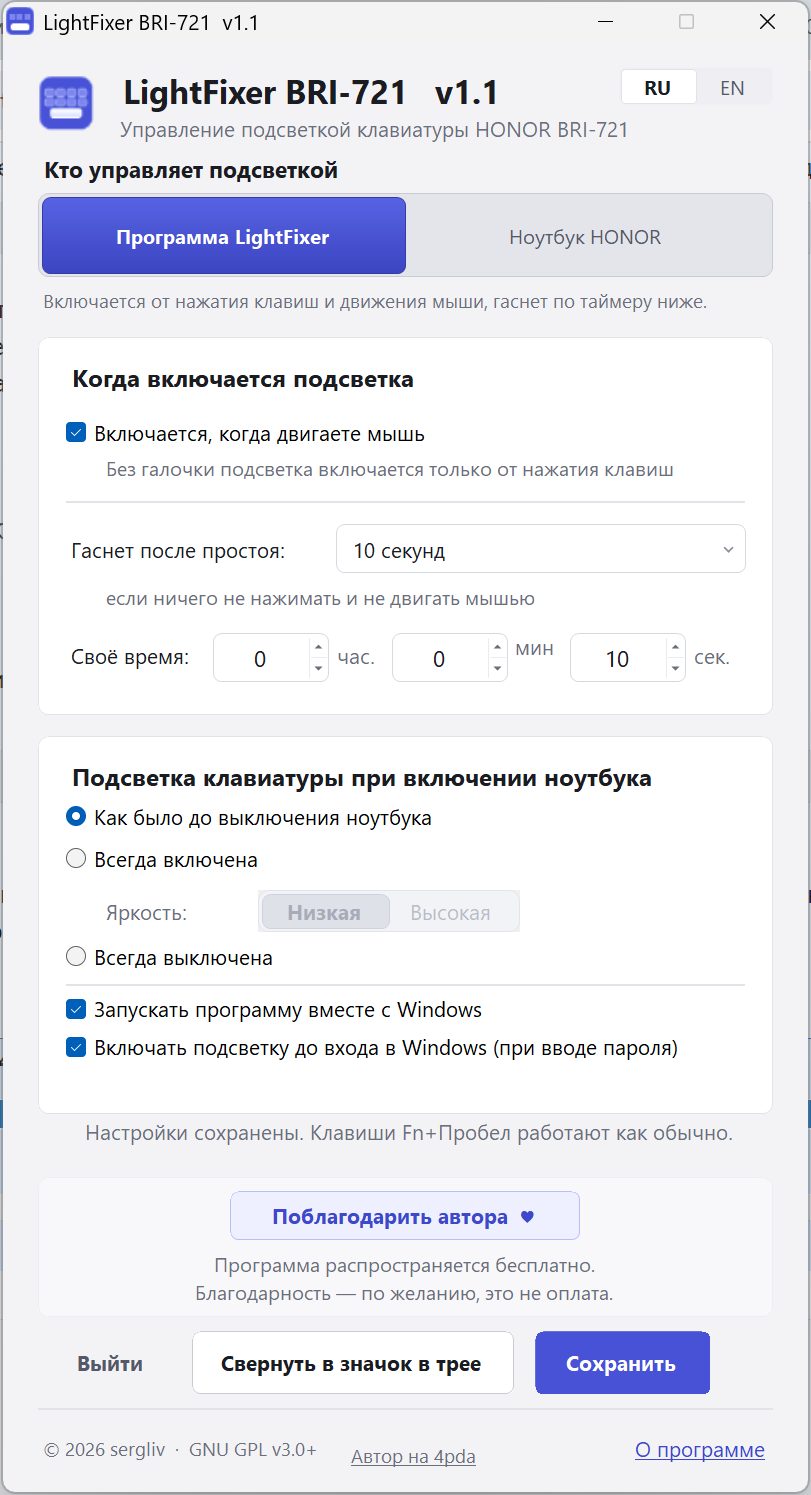
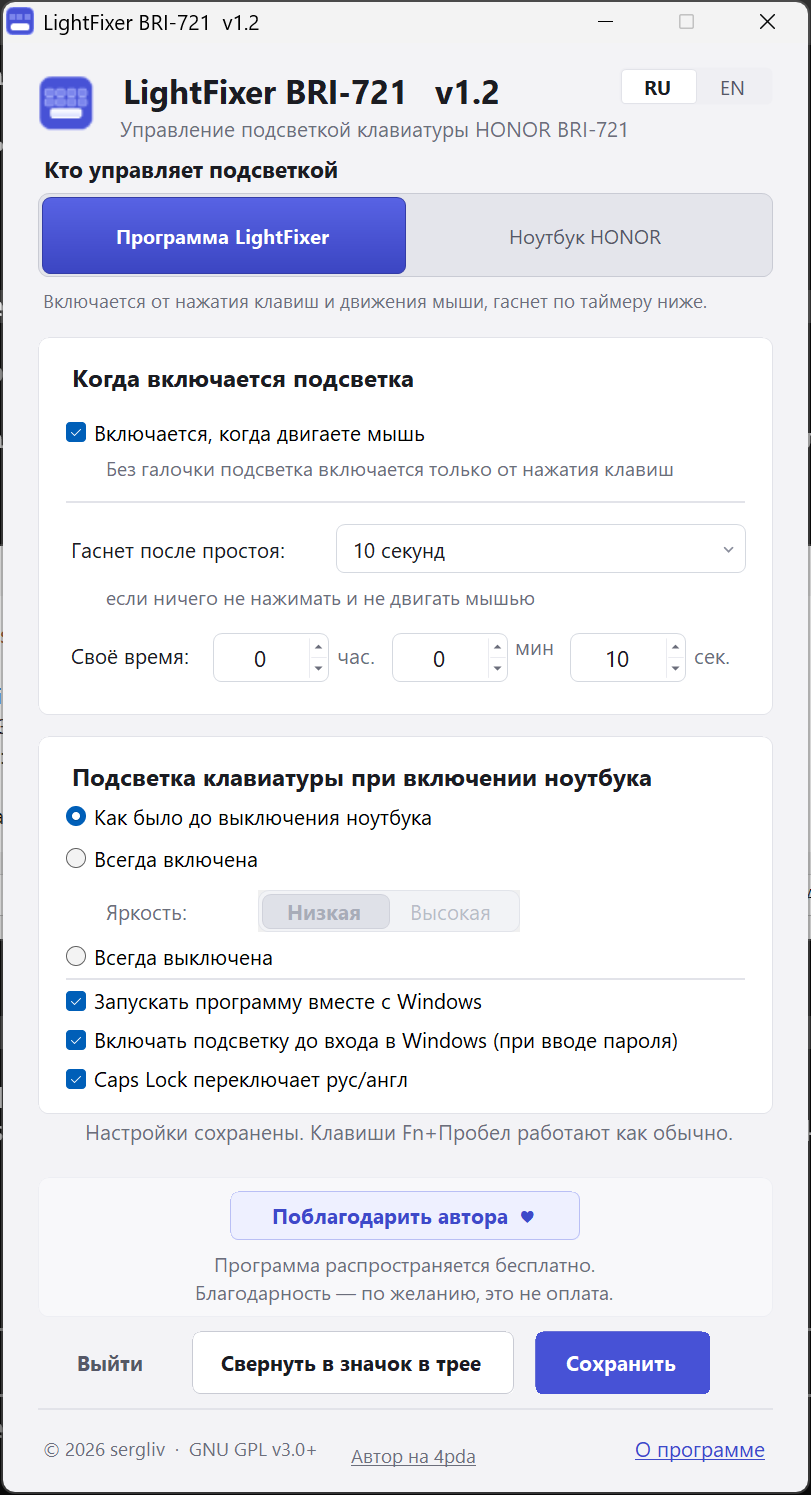
Версия 1.2: Caps Lock переключает раскладку рус/англ

diff --git a/LightFixer.cs b/LightFixer.cs
@@ -33,8 +33,8 @@ using System.Windows.Forms;
 
 // the same number must stand in three places: here, in app.manifest and in the window;
 // bump them together
-[assembly: AssemblyVersion("1.1.0.0")]
-[assembly: AssemblyFileVersion("1.1.0.0")]
+[assembly: AssemblyVersion("1.2.0.0")]
+[assembly: AssemblyFileVersion("1.2.0.0")]
 [assembly: AssemblyProduct("LightFixer BRI-721")]
 [assembly: AssemblyCopyright("Copyright (C) 2026 sergliv")]
 
@@ -51,6 +51,7 @@ namespace LightFixer
         public string Control = "ours";     // "ours" | "native"
         public bool MouseWake = true;
         public bool BootLight = true;       // light at the password screen, before sign-in
+        public bool CapsSwitch = false;     // Caps Lock switches the keyboard layout, not the lock
         public string Lang = "";            // interface language: "ru" | "en"
         public int FwTimeout = 0;           // the laptop's own timeout, kept to restore it on exit
         public string Path;
@@ -77,6 +78,8 @@ namespace LightFixer
                     if (m.Success) MouseWake = m.Groups[1].Value == "true";
                     m = Regex.Match(t, "\"bootLight\"\\s*:\\s*(true|false)");
                     if (m.Success) BootLight = m.Groups[1].Value == "true";
+                    m = Regex.Match(t, "\"capsSwitch\"\\s*:\\s*(true|false)");
+                    if (m.Success) CapsSwitch = m.Groups[1].Value == "true";
                     m = Regex.Match(t, "\"startup\"\\s*:\\s*\"([^\"]+)\"");
                     if (m.Success) Startup = m.Groups[1].Value;
                     m = Regex.Match(t, "\"lastLevel\"\\s*:\\s*\"([^\"]+)\"");
@@ -111,6 +114,7 @@ namespace LightFixer
                         "    \"control\":  \"" + Control + "\",\n" +
                         "    \"mouseWake\":  " + (MouseWake ? "true" : "false") + ",\n" +
                         "    \"bootLight\":  " + (BootLight ? "true" : "false") + ",\n" +
+                        "    \"capsSwitch\":  " + (CapsSwitch ? "true" : "false") + ",\n" +
                         "    \"idleSeconds\":  " + IdleSeconds.ToString(CultureInfo.InvariantCulture) + ",\n" +
                         "    \"lang\":  \"" + Lang + "\",\n" +
                         "    \"fwTimeout\":  " + FwTimeout.ToString(CultureInfo.InvariantCulture) + "\n" +
@@ -147,6 +151,20 @@ namespace LightFixer
 
         private delegate IntPtr HookProc(int nCode, IntPtr wParam, IntPtr lParam);
         [DllImport("user32.dll")] private static extern IntPtr SetWindowsHookEx(int idHook, HookProc lpfn, IntPtr hMod, uint dwThreadId);
+
+        // ---- Caps Lock as the layout switch
+        [StructLayout(LayoutKind.Sequential)]
+        private struct KBDLLHOOKSTRUCT { public uint vkCode; public uint scanCode; public uint flags; public uint time; public IntPtr dwExtraInfo; }
+
+        private const int VkCapital = 0x14;
+        private const uint WmInputLangChangeRequest = 0x0050;
+
+        [DllImport("user32.dll")] private static extern IntPtr GetForegroundWindow();
+        [DllImport("user32.dll")] private static extern uint GetWindowThreadProcessId(IntPtr hWnd, out uint pid);
+        [DllImport("user32.dll")] private static extern IntPtr GetKeyboardLayout(uint idThread);
+        [DllImport("user32.dll")] private static extern int GetKeyboardLayoutList(int nBuff, [Out] IntPtr[] lpList);
+        [DllImport("user32.dll")] private static extern bool PostMessage(IntPtr hWnd, uint msg, IntPtr wParam, IntPtr lParam);
+        [DllImport("user32.dll")] private static extern IntPtr ActivateKeyboardLayout(IntPtr hkl, uint flags);
         [DllImport("user32.dll")] private static extern IntPtr CallNextHookEx(IntPtr hhk, int nCode, IntPtr wParam, IntPtr lParam);
         [DllImport("user32.dll")] private static extern bool GetMessage(out MSG lpMsg, IntPtr hWnd, uint wMsgFilterMin, uint wMsgFilterMax);
         [DllImport("user32.dll")] private static extern bool TranslateMessage(ref MSG lpMsg);
@@ -367,11 +385,36 @@ namespace LightFixer
             {
                 keyProc = delegate(int nCode, IntPtr wParam, IntPtr lParam)
                 {
-                    if (nCode >= 0 && (wParam == (IntPtr)0x100 || wParam == (IntPtr)0x104))
+                    if (nCode >= 0)
                     {
-                        lastKeyTick = unchecked((uint)Environment.TickCount);
-                        // cut a long sleep short: the light must come back at once
-                        try { wakeEvent.Set(); } catch { }
+                        bool down = (wParam == (IntPtr)0x100 || wParam == (IntPtr)0x104);
+                        bool up = (wParam == (IntPtr)0x101 || wParam == (IntPtr)0x105);
+
+                        // Caps Lock as the layout switch: the key never reaches Windows,
+                        // so the lock never engages and the Caps Lock light stays dark.
+                        // Both press and release must be swallowed, otherwise the lock
+                        // would be toggled on the release.
+                        if ((down || up) && (S != null) && S.CapsSwitch)
+                        {
+                            KBDLLHOOKSTRUCT k = (KBDLLHOOKSTRUCT)Marshal.PtrToStructure(lParam, typeof(KBDLLHOOKSTRUCT));
+                            if (k.vkCode == VkCapital)
+                            {
+                                if (down)
+                                {
+                                    lastKeyTick = unchecked((uint)Environment.TickCount);
+                                    try { wakeEvent.Set(); } catch { }
+                                    try { SwitchLayout(); } catch { }
+                                }
+                                return (IntPtr)1;
+                            }
+                        }
+
+                        if (down)
+                        {
+                            lastKeyTick = unchecked((uint)Environment.TickCount);
+                            // cut a long sleep short: the light must come back at once
+                            try { wakeEvent.Set(); } catch { }
+                        }
                     }
                     return CallNextHookEx(IntPtr.Zero, nCode, wParam, lParam);
                 };
@@ -392,6 +435,35 @@ namespace LightFixer
             });
             t.IsBackground = true;
             t.Start();
+        }
+
+        // Switches the keyboard layout of the window that has the focus. The message
+        // is posted, not activated in our own thread: the focus belongs to another
+        // program, and only that program's window can change its own layout.
+        private static void SwitchLayout()
+        {
+            IntPtr hwnd = GetForegroundWindow();
+            uint pid;
+            uint tid = (hwnd != IntPtr.Zero) ? GetWindowThreadProcessId(hwnd, out pid) : 0;
+
+            int n = GetKeyboardLayoutList(0, null);
+            if (n <= 1) return;                      // nothing to switch between
+            IntPtr[] list = new IntPtr[n];
+            if (GetKeyboardLayoutList(n, list) <= 0) return;
+
+            IntPtr cur = (tid != 0) ? GetKeyboardLayout(tid) : IntPtr.Zero;
+            int curLang = ((int)cur) & 0xFFFF;
+            int idx = -1;
+            for (int i = 0; i < n; i++)
+            {
+                // compare the language only: the same language may be installed twice
+                // (two English layouts), and then the key would not move at all
+                if ((((int)list[i]) & 0xFFFF) == curLang) { idx = i; break; }
+            }
+            IntPtr next = (idx >= 0) ? list[(idx + 1) % n] : list[0];
+
+            if (hwnd != IntPtr.Zero) PostMessage(hwnd, WmInputLangChangeRequest, IntPtr.Zero, next);
+            else ActivateKeyboardLayout(next, 0);
         }
 
         private static long IdleMs()
@@ -756,6 +828,7 @@ namespace LightFixer
         private static DropDown cbTime;
         private static CheckBox cbMouse;
         private static CheckBox cbAutostart, cbBoot;   // program start: with Windows, before sign-in
+        private static CheckBox cbCaps;                // Caps Lock as the layout switch
         private static CardPanel cardBehaviour, cardStartup, cardSupport;
         // kept in a field on purpose: a ToolTip that nothing references is collected
         // by the garbage collector and the hints silently stop appearing
@@ -1285,7 +1358,7 @@ namespace LightFixer
             // the window is rebuilt on every language change: the old tips would leak
             if (tipStartup != null) { tipStartup.Dispose(); tipStartup = null; }
             form = new Form();
-            form.Text = "LightFixer BRI-721  v1.1";
+            form.Text = "LightFixer BRI-721  v1.2";
             form.AutoScaleMode = AutoScaleMode.None;
             form.ClientSize = new Size(460, 828);
             form.StartPosition = FormStartPosition.CenterScreen;
@@ -1304,7 +1377,7 @@ namespace LightFixer
             form.Controls.Add(picLogo);
 
             Label title = new Label();
-            title.Text = "LightFixer BRI-721   v1.1";
+            title.Text = "LightFixer BRI-721   v1.2";
             title.Font = new Font("Segoe UI", 14f, FontStyle.Bold);
             title.ForeColor = CText;
             title.TextAlign = ContentAlignment.MiddleLeft;
@@ -1500,12 +1573,12 @@ namespace LightFixer
             // ---- the program itself: two things Windows must do on its own
             Panel sepStart = new Panel();
             sepStart.BackColor = CLine;
-            sepStart.SetBounds(16, 142, 388, 1);
+            sepStart.SetBounds(16, 138, 388, 1);
             cardStartup.Controls.Add(sepStart);
 
             cbAutostart = new CheckBox();
             cbAutostart.Text = L("Запускать программу вместе с Windows", "Start the program with Windows");
-            cbAutostart.SetBounds(16, 146, 388, 20);
+            cbAutostart.SetBounds(16, 142, 388, 20);
             cardStartup.Controls.Add(cbAutostart);
             tipStartup.SetToolTip(cbAutostart,
                 L("Значок программы в трее появится сразу после входа в Windows,\r\nи подсветка будет работать по правилам этой программы.\r\nБез этой галочки программа не запускается сама — и подсветку\r\nпридётся настраивать клавишами ноутбука.",
@@ -1514,11 +1587,21 @@ namespace LightFixer
             cbBoot = new CheckBox();
             cbBoot.Text = L("Включать подсветку до входа в Windows (при вводе пароля)",
                             "Light up before sign-in (at the password screen)");
-            cbBoot.SetBounds(16, 168, 388, 20);
+            cbBoot.SetBounds(16, 164, 388, 20);
             cardStartup.Controls.Add(cbBoot);
             tipStartup.SetToolTip(cbBoot,
                 L("Клавиатура загорается уже при вводе пароля Windows, сразу после включения ноутбука.\r\nРаботает и без входа в систему: отдельная задача Windows, окно не появляется.",
                   "The keyboard lights up while the Windows password is typed, right after power-on.\r\nIt works even before sign-in: a separate Windows task, no window appears."));
+
+            // Caps Lock as the layout switch: the key is intercepted and never reaches
+            // Windows, so the lock itself never turns on and its light stays dark.
+            cbCaps = new CheckBox();
+            cbCaps.Text = L("Caps Lock переключает рус/англ", "Caps Lock switches RU/EN");
+            cbCaps.SetBounds(16, 186, 388, 20);
+            cardStartup.Controls.Add(cbCaps);
+            tipStartup.SetToolTip(cbCaps,
+                L("Нажатие Caps Lock переключает раскладку клавиатуры.\r\nФиксация заглавных букв при этом не включается, лампочка Caps Lock не горит.\r\nБез галочки клавиша работает как обычно.",
+                  "Pressing Caps Lock switches the keyboard layout.\r\nCapital letters are not locked, and the Caps Lock light stays off.\r\nWithout the tick the key works as usual."));
 
             // ---- save state, always in the same slot so nothing jumps
             picStatus = new PictureBox();
@@ -1680,6 +1763,7 @@ namespace LightFixer
             cbMouse.CheckedChanged += delegate { SetDirty(); };
             cbAutostart.CheckedChanged += delegate { SetDirty(); };
             cbBoot.CheckedChanged += delegate { SetDirty(); };
+            cbCaps.CheckedChanged += delegate { SetDirty(); };
 
             cbTime.SelectedIndexChanged += delegate
             {
@@ -1773,6 +1857,7 @@ namespace LightFixer
             // the one that really decides whether the program starts
             cbAutostart.Checked = TaskEnabled();
             cbBoot.Checked = S.BootLight;
+            cbCaps.Checked = S.CapsSwitch;
 
             int idx = Array.IndexOf(IdleValues, S.IdleSeconds);
             if (idx < 0) idx = IdleValues.Length - 1;   // not in the list - show it as "your own value"
@@ -1790,7 +1875,7 @@ namespace LightFixer
             dirty = false;
             SetStatus(0, L("Настройки сохранены. Клавиши Fn+Пробел работают как обычно.",
                               "Settings are saved. Fn+Space works as usual."));
-            if (form != null) form.Text = "LightFixer BRI-721  v1.1";
+            if (form != null) form.Text = "LightFixer BRI-721  v1.2";
         }
 
         // ---------- unsaved changes ----------
@@ -1878,6 +1963,7 @@ namespace LightFixer
                 else S.IdleSeconds = IdleValues[cbTime.SelectedIndex];
                 S.MouseWake = cbMouse.Checked;
                 S.BootLight = cbBoot.Checked;
+                S.CapsSwitch = cbCaps.Checked;
                 if (rbOff.Checked) S.Startup = "off";
                 else if (rbLast.Checked) S.Startup = "last";
                 else if (rbOn.Checked) S.Startup = (segLevel.SelectedIndex == 1) ? "high" : "low";
@@ -1902,7 +1988,7 @@ namespace LightFixer
                 }
 
                 dirty = false;
-                if (form != null) form.Text = "LightFixer BRI-721  v1.1";
+                if (form != null) form.Text = "LightFixer BRI-721  v1.2";
                 ApplyStartUpTicks();
                 string savedText = L("Сохранено. Уже действует.", "Saved. Now in effect.");
                 SetStatus(2, savedText);
@@ -2055,7 +2141,7 @@ namespace LightFixer
                             "Keyboard backlight control for HONOR BRI-721"), ContentAlignment.MiddleLeft);
 
                 Label pill = new Label();
-                pill.Text = L("версия 1.1", "version 1.1");
+                pill.Text = L("версия 1.2", "version 1.2");
                 pill.ForeColor = CLink;
                 pill.TextAlign = ContentAlignment.MiddleCenter;
                 pill.AutoSize = false;

diff --git a/README.md b/README.md
@@ -1,14 +1,20 @@
-# LightFixer BRI-721  —  версия 1.1
+# LightFixer BRI-721  —  версия 1.2
 
 Фиксер подсветки клавиатуры ноутбука **HONOR X16 Plus BRI-721** под Windows 11.
 
 Английская версия: [README.en.md](README.en.md)
 
-**Что нового в 1.1.** Расход батареи в простое снижен примерно в 12–20 раз:
+**Что нового в 1.2.** Клавиша **Caps Lock** умеет переключать раскладку
+рус/англ — теперь оба навыка в одном приложении и одном значке в трее: галочка
+«Caps Lock переключает рус/англ» в окне. Фиксация заглавных букв при этом не
+включается, лампочка Caps Lock не горит. Без галочки клавиша работает как обычно.
+
+**Что было в 1.1.** Расход батареи в простое снижен примерно в 12–20 раз:
 когда клавиатура и мышь не трогаются дольше 30 секунд, программа спрашивает
 прошивку раз в секунду вместо десяти. Нажатие клавиши будит её сразу, поэтому
 подсветка загорается без задержки. Замер: 0,026 % ядра в простое против 0,3–0,55 %
-в версии 1.0. Поведение подсветки и настройки не изменились.
+в версии 1.0.
+
 
 Программа включает подсветку клавиш при работе за ноутбуком (по клавиатуре и по
 мыши) и выключает её после заданного простоя — чтобы не светить впустую и не жечь
@@ -29,6 +35,8 @@
 - Клавиши **Fn+Пробел** работают всегда, как и без программы: ими можно в любой
   момент включить, выключить или сменить яркость подсветки — точно так же, как
   в штатном режиме ноутбука.
+- Клавиша **Caps Lock** может переключать раскладку рус/англ: фиксация заглавных
+  не включается, лампочка не горит. Отключается галочкой в окне.
 - Работает в трее, автозапуск при входе в Windows, настройки сохраняются.
 
 ## Как запустить

diff --git a/README.en.md b/README.en.md
@@ -1,12 +1,17 @@
-# LightFixer BRI-721  —  version 1.1
+# LightFixer BRI-721  —  version 1.2
 
 Keyboard backlight helper for the **HONOR X16 Plus 2024 (BRI-721)** notebook on Windows 11.
+
+**New in 1.2.** The **Caps Lock** key can switch the RU/EN keyboard layout — both
+skills now live in one application and one tray icon: tick “Caps Lock switches RU/EN”
+in the window. Capital letters are not locked and the Caps Lock light stays off.
+Without the tick the key works as usual.
 
 **New in 1.1.** Idle battery drain is down by roughly 12–20 times: when the keyboard
 and the mouse are left alone for more than 30 seconds, the program asks the firmware
 once a second instead of ten times. A key press wakes it at once, so the backlight
 comes back without delay. Measured: 0.026 % of one core while idle, against 0.3–0.5 %
-in version 1.0. Backlight behaviour and settings are unchanged.
+in version 1.0.
 
 The program turns the keyboard backlight on while you are using the laptop (on key
 presses, and optionally on mouse movement) and turns it off after a configurable idle
@@ -28,6 +33,8 @@ backlight level right after the laptop is powered on.
   commands at all and the laptop's own settings take over.
 - **Fn+Space** keeps working exactly as it does without the program: it cycles the
   backlight at any time, just like in the stock configuration.
+- The **Caps Lock** key can switch the RU/EN layout: capital letters are not locked
+  and the light stays off. Turned off by a tick in the window.
 - Lives in the notification area, starts with Windows, keeps its settings.
 
 ## Getting started
